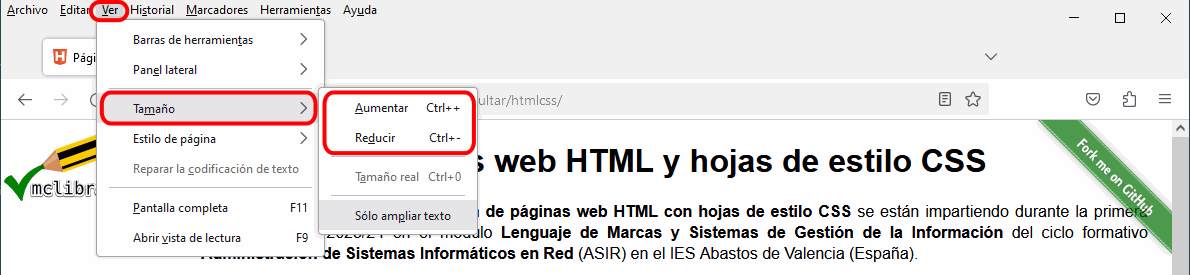
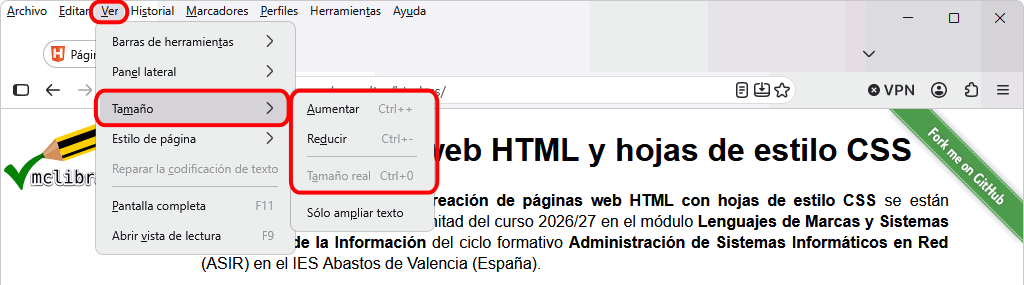
FF Configuración básica: actualzizo cpaturas apartado Zoom

Changed region(s): [[0.0, 0.0, 1.0, 1.0], [0.8438, 0.1745, 0.875, 0.2036], [0.25, 0.2327, 0.2812, 0.2618]]

diff --git a/lecciones/ff-configuracion.html b/lecciones/ff-configuracion.html
@@ -274,7 +274,7 @@
       <li>Utilizar el atajo de teclado <span class="soft-atajo-teclado">Ctrl++</span> para aumentar el tamaño, <span class="soft-atajo-teclado">Ctrl+-</span> para reducirlo y <span class="soft-atajo-teclado">Ctrl+0</span> para volver al tamaño normal</li>
       <li>Utilizar las opciones de menú <span class="soft-menu">Ver &gt; Tamaño &gt; Aumentar / Reducir / Tamaño real</span>:
         <p class="captura">
-          <img src="../img/firefox/ff-ver-tamano-1.png" alt="Firefox. Ver &gt; Tamaño &gt; Aumentar / Reducir / Tamaño real" width="1190" height="275">
+          <img src="../img/firefox/ff-ver-tamano-1.png" alt="Firefox. Ver &gt; Tamaño &gt; Aumentar / Reducir / Tamaño real" width="1024" height="285">
         </p>
       </li>
     </ul>
@@ -283,12 +283,12 @@
     <ul>
       <li>Vista normal:
         <p class="captura">
-          <img src="../img/firefox/ff-ver-tamano-zoom-1.png" alt="Firefox - Vista normal" width="1190" height="235">
+          <img src="../img/firefox/ff-ver-tamano-2.png" alt="Firefox - Vista normal" width="1024" height="245">
         </p>
       </li>
       <li>Vista tras aumentar tres veces el tamaño:
         <p class="captura">
-          <img src="../img/firefox/ff-ver-tamano-zoom-2.png" alt="Firefox - Zoom clásico" width="1190" height="310">
+          <img src="../img/firefox/ff-ver-tamano-3.png" alt="Firefox - Zoom clásico" width="1024" height="285">
         </p>
       </li>
     </ul>
@@ -296,26 +296,26 @@
     <p>Firefox dispone además de un zoom que amplia o reduce sólo el tamaño de letra sin modificar el resto de elementos (imágenes, etc.). Para elegir entre un tipo u otro de zoom, hay que marcar o desmarcar la opción de menú <span class="soft-menu">Ver &gt; Tamaño &gt; Sólo ampliar texto</span>:</p>
 
     <p class="captura">
-      <img src="../img/firefox/ff-ver-tamano-2.png" alt="Firefox. Ver &gt; Tamaño &gt; Sólo ampliar texto" width="1190" height="275">
+      <img src="../img/firefox/ff-ver-tamano-4.png" alt="Firefox. Ver &gt; Tamaño &gt; Sólo ampliar texto" width="1024" height="285">
     </p>
 
     <p>Este zoom amplía o reduce únicamente el texto, como muestran las capturas siguientes:</p>
     <ul>
       <li>Vista normal:
         <p class="captura">
-          <img src="../img/firefox/ff-ver-tamano-zoom-1.png" alt="Firefox - Vista normal" width="1190" height="235">
+          <img src="../img/firefox/ff-ver-tamano-2.png" alt="Firefox - Vista normal" width="1024" height="245">
         </p>
       </li>
       <li>Vista tras aumentar tres veces el tamaño:
         <p class="captura">
-          <img src="../img/firefox/ff-ver-tamano-zoom-3.png" alt="Firefox - Zoom total" width="1190" height="310">
+          <img src="../img/firefox/ff-ver-tamano-5.png" alt="Firefox - Zoom total" width="1024" height="285">
         </p>
       </li>
     </ul>
   </section>
 
   <footer>
-    <p class="ultmod">Última modificación de esta página: 28 de septiembre de 2026</p>
+    <p class="ultmod">Última modificación de esta página: 8 de octubre de 2026</p>
 
     <p class="licencia">
       <a rel="license" href="https://creativecommons.org/licenses/by-sa/4.0/deed.es"><img src="../varios/iconos/icono-cc-by-sa.svg" alt="Licencia Creative Commons" title="Licencia Creative Commons BY-SA" width="120" height="42"></a><br>

diff --git a/index.html b/index.html
@@ -158,7 +158,7 @@
   </div>
 
   <footer>
-    <p class="ultmod">Última modificación de alguna página de este curso: 7 de octubre de 2026</p>
+    <p class="ultmod">Última modificación de alguna página de este curso: 8 de octubre de 2026</p>
 
     <p class="licencia">
       <a rel="license" href="https://creativecommons.org/licenses/by-sa/4.0/deed.es"><img src="varios/iconos/icono-cc-by-sa.svg" alt="Licencia Creative Commons" title="Licencia Creative Commons BY-SA" width="120" height="42"></a><br>
